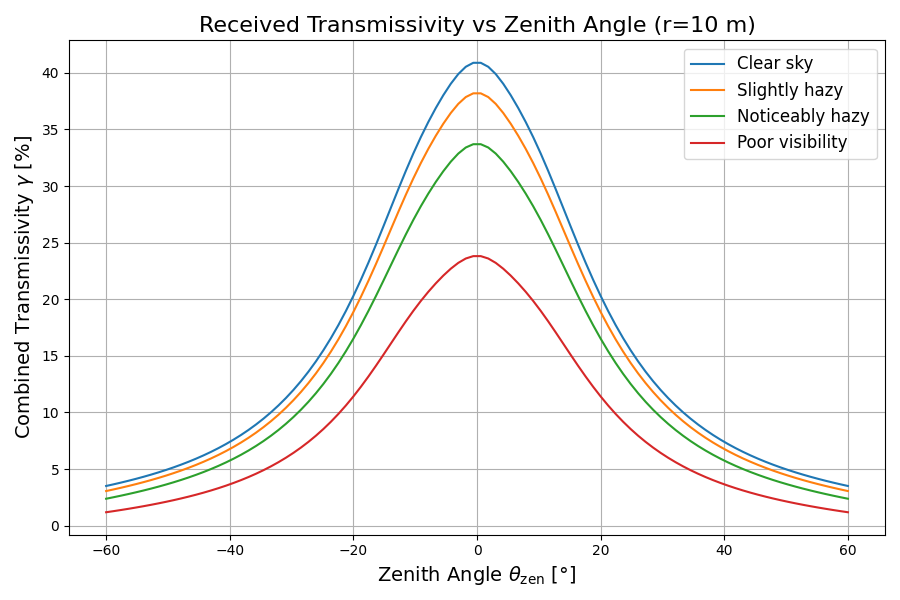
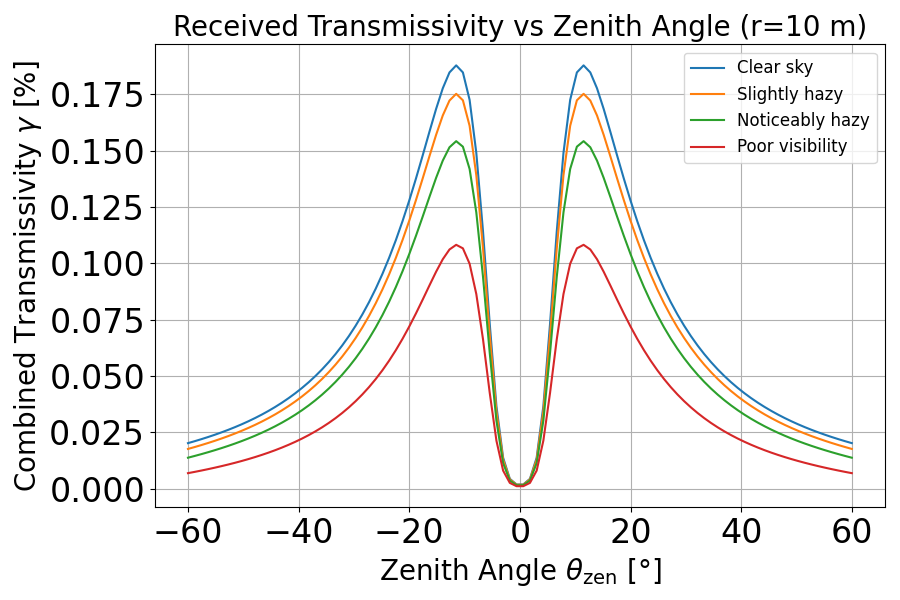
simulate the combined transmissivity each weather conditions

diff --git a/BB84/SimulationResult/Circle_beam/Transmittance/gamma_theta_zen.py b/BB84/SimulationResult/Circle_beam/Transmittance/gamma_theta_zen.py
@@ -28,7 +28,7 @@ from atmospheric_transmissivity import transmissivity_etat
     # D_E : Earth's radius (km)
     # h_s : Satellite's altitude
     #======================#
-a = 10             
+a = 0.75             
 G = 6.67430e-11       
 M_T = 5.972e24      
 D_E = 6378e3       
@@ -92,9 +92,11 @@ def main():
         # プロット
         plt.plot(np.degrees(theta_list), gamma_percent_list, label=fr'{weather}')
 
-    plt.xlabel(r"Zenith Angle $\theta_\mathrm{zen}$ [°]", fontsize=14)
-    plt.ylabel(r"Combined Transmissivity $\gamma$ [%]", fontsize=14)
-    plt.title(fr"Received Transmissivity vs Zenith Angle (r={r_fixed} m)", fontsize=16)
+    plt.xlabel(r"Zenith Angle $\theta_\mathrm{zen}$ [°]", fontsize=20)
+    plt.ylabel(r"Combined Transmissivity $\gamma$ [%]", fontsize=20)
+    plt.title(fr"Received Transmissivity vs Zenith Angle (r={r_fixed} m)", fontsize=20)
+    plt.xticks(fontsize=24)
+    plt.yticks(fontsize=24)
     plt.grid(True)
     plt.legend(fontsize=12)
     plt.tight_layout()
